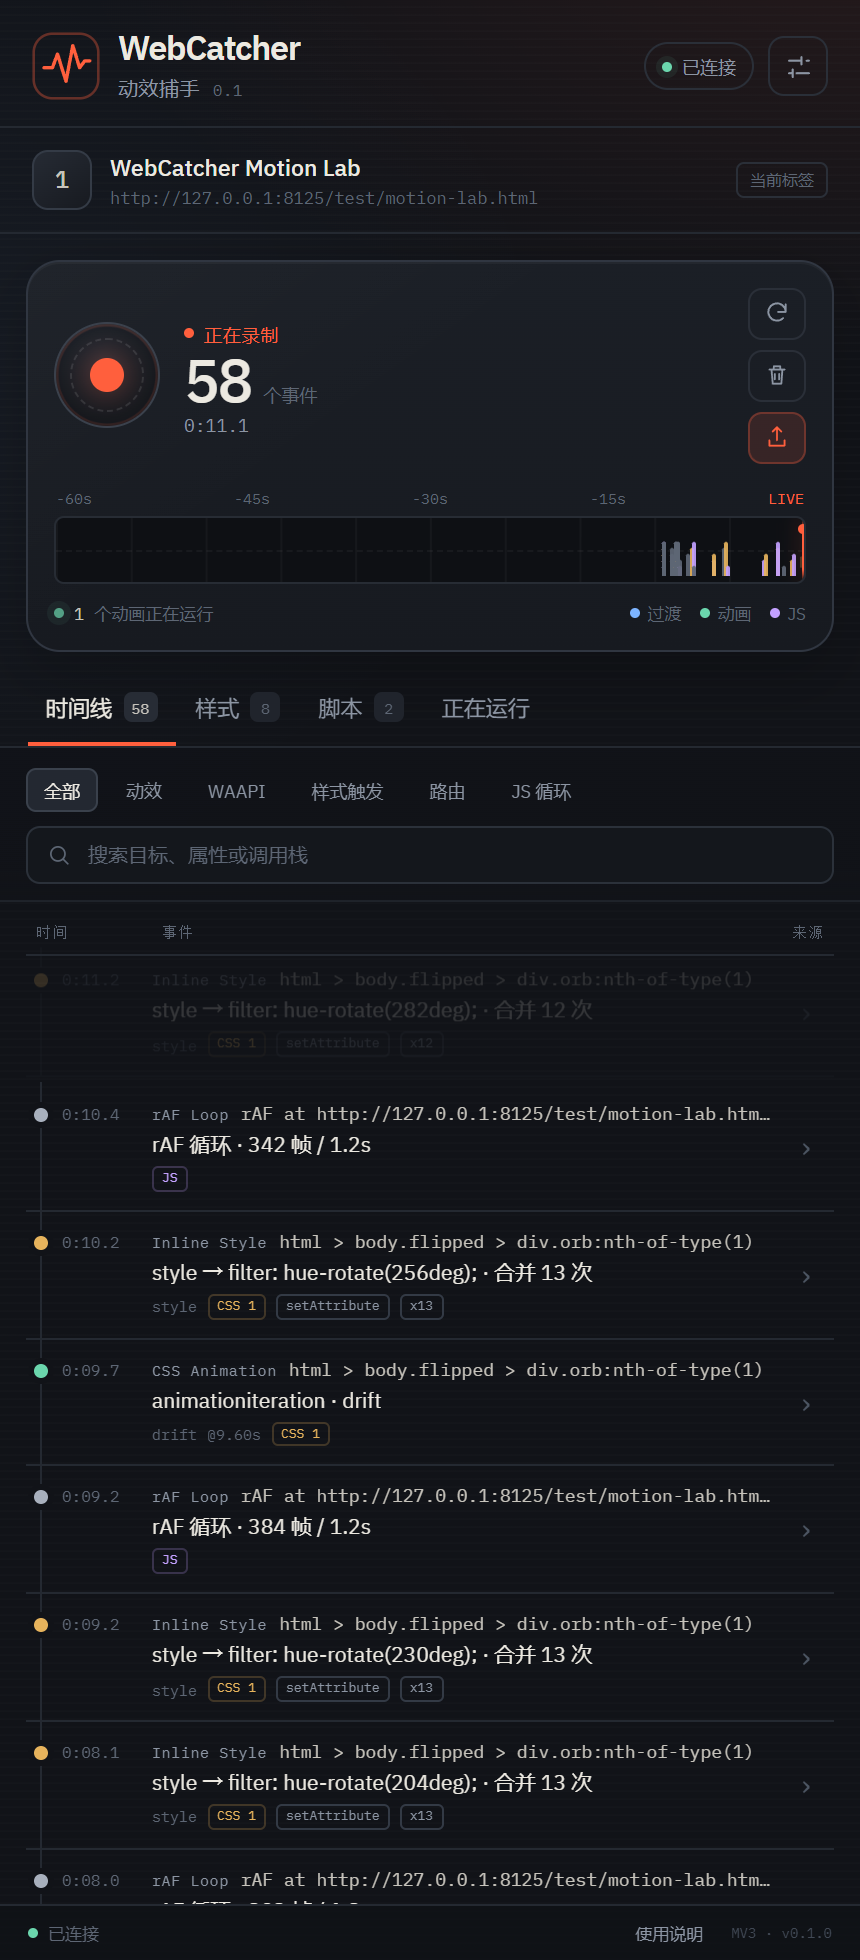
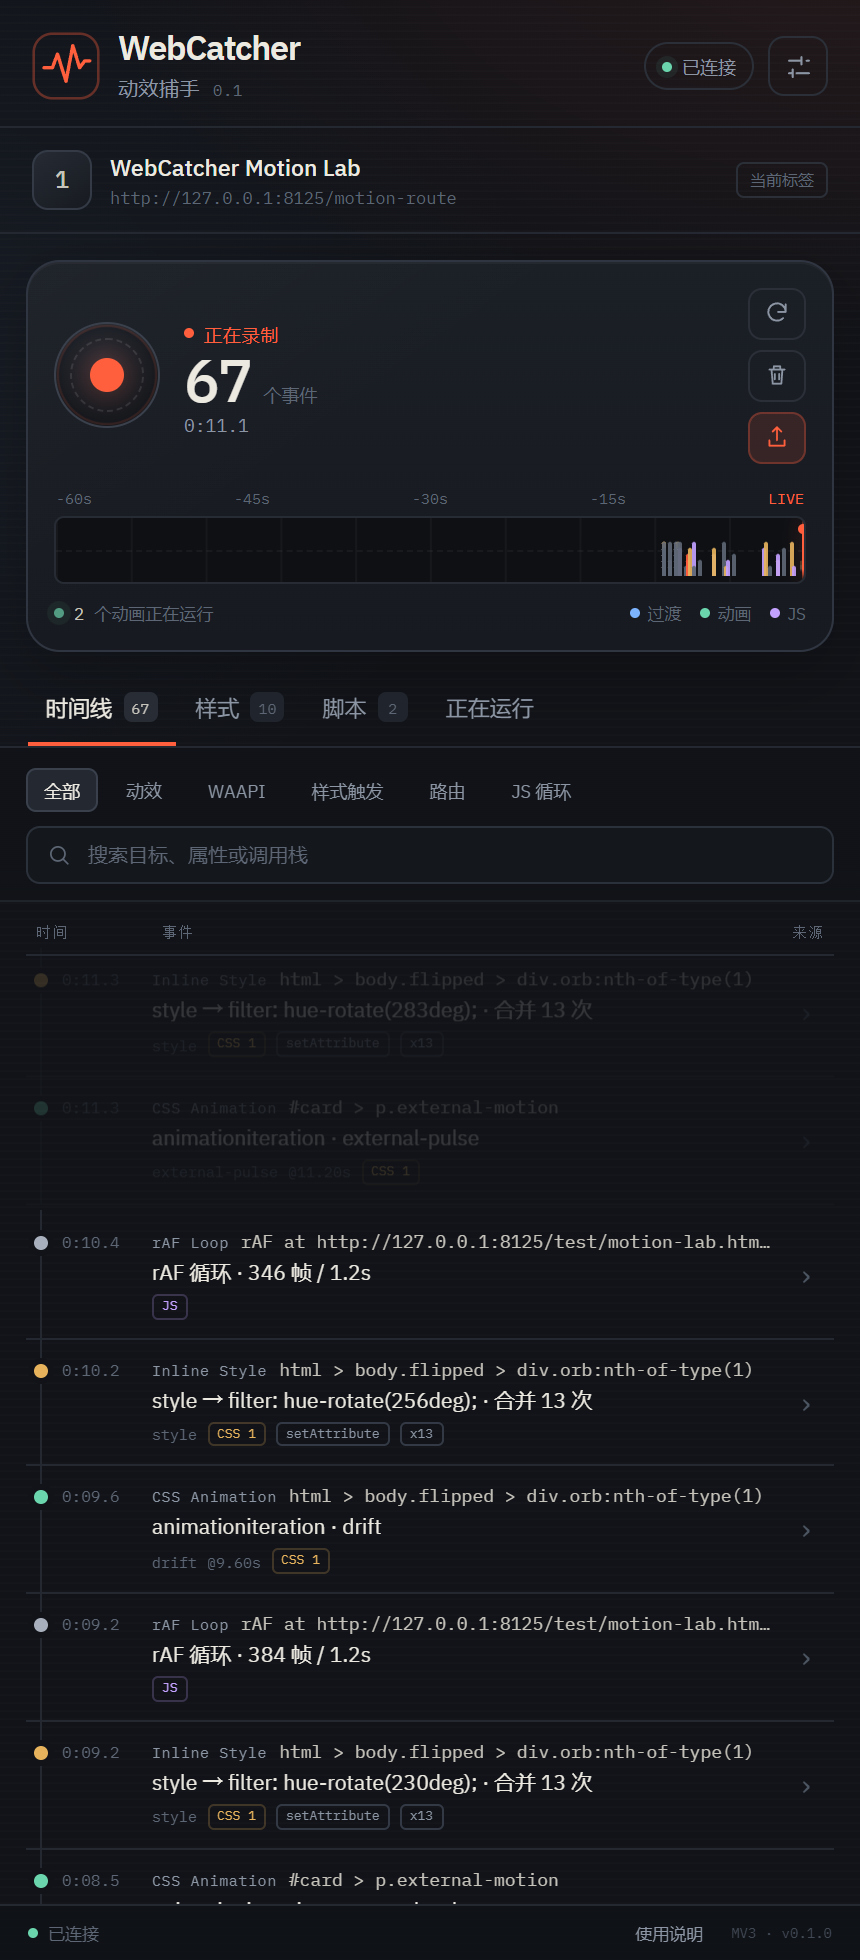
fix: keep source URLs stable across SPA routes

diff --git a/content/recorder.js b/content/recorder.js
@@ -10,6 +10,7 @@
   } catch { return; }
 
   const MAIN_SOURCE = 'webcatcher-main';
+  const PAGE_KEY = location.href.split('#')[0];
   const BRIDGE_SOURCE = 'webcatcher-bridge';
   const MOTION_RE = /(?:transition|animation|transform|translate|scale|rotate|offset-path|view-transition|will-change|scroll-timeline|view-timeline|perspective|filter|clip-path|cubic-bezier)/i;
   const MOTION_INLINE_PROPS = new Set([
@@ -36,6 +37,8 @@
   const inlineOwners = new WeakMap();
   const inlineStamp = new WeakMap();
   const styleRates = new WeakMap();
+  const scriptUrlCache = new WeakMap();
+  const linkUrlCache = new WeakMap();
   const classStamp = new WeakMap();
   const motionRuleCache = new WeakMap();
   const shadowRoots = new WeakSet();
@@ -1004,14 +1007,16 @@
         const type = (script.type || '').toLowerCase();
         if (type && !/javascript|ecmascript|module/.test(type)) continue;
         if (script.src) {
-          scripts.push({ src: script.src, inline: false });
+          let src = scriptUrlCache.get(script);
+          if (!src) { src = script.src; scriptUrlCache.set(script, src); }
+          scripts.push({ src, inline: false });
         } else {
           const text = script.textContent || '';
           if (!text.trim() || totalInline > 1_200_000) continue;
           const clipped = text.slice(0, 260_000);
           totalInline += clipped.length;
           index += 1;
-          scripts.push({ inline: true, text: clipped, label: `${location.href.split('#')[0]}#webcatcher-inline-script-${index}` });
+          scripts.push({ inline: true, text: clipped, label: `${PAGE_KEY}#webcatcher-inline-script-${index}` });
         }
       }
       for (const style of styleNodes) {
@@ -1022,12 +1027,16 @@
         const clipped = text.slice(0, 220_000);
         totalInline += clipped.length;
         index += 1;
-        styles.push({ inline: true, text: clipped, label: `${location.href.split('#')[0]}#webcatcher-inline-style-${index}`, media: style.media || '' });
+        styles.push({ inline: true, text: clipped, label: `${PAGE_KEY}#webcatcher-inline-style-${index}`, media: style.media || '' });
       }
       for (const link of linkNodes) {
         if (seenStyles.has(link)) continue;
         seenStyles.add(link);
-        if (link.href) styles.push({ inline: false, href: link.href, media: link.media || '' });
+        if (link.href) {
+          let href = linkUrlCache.get(link);
+          if (!href) { href = link.href; linkUrlCache.set(link, href); }
+          styles.push({ inline: false, href, media: link.media || '' });
+        }
       }
     }
 
@@ -1040,7 +1049,7 @@
           const text = serializeSheet(sheet);
           if (text && totalInline < 1_200_000) {
             totalInline += text.length;
-            styles.push({ inline: true, text: text.slice(0, 220_000), label: `${location.href.split('#')[0]}#webcatcher-cssom-${styles.length}`, media: sheet.media?.mediaText || '' });
+            styles.push({ inline: true, text: text.slice(0, 220_000), label: `${PAGE_KEY}#webcatcher-cssom-${styles.length}`, media: sheet.media?.mediaText || '' });
           }
         }
       }
@@ -1052,7 +1061,7 @@
           const text = serializeSheet(sheet);
           if (!text || totalInline > 1_200_000) continue;
           totalInline += text.length;
-          styles.push({ inline: true, text: text.slice(0, 220_000), label: location.href.split('#')[0] + '#webcatcher-adopted-style-' + styles.length });
+          styles.push({ inline: true, text: text.slice(0, 220_000), label: PAGE_KEY + '#webcatcher-adopted-style-' + styles.length });
         }
       } catch { /* ignore */ }
     }

diff --git a/background.js b/background.js
@@ -10,13 +10,14 @@ const MAX_SEEN_STYLES = 160;
 const PANEL_PORT = 'webcatcher-panel';
 
 const sessions = new Map();
+const loadingSessions = new Map();
 const saveTimers = new Map();
 const panelPorts = new Map();
 const sourceCache = new Map();
 const analysisCache = new Map();
 let fetchActive = 0;
 const fetchQueue = [];
-let badgeTimer = null;
+const badgeTimers = new Map();
 
 function makeSession(tabId) {
   const now = Date.now();
@@ -45,18 +46,27 @@ function storageKey(tabId) { return `${SESSION_PREFIX}${tabId}`; }
 
 async function loadSession(tabId) {
   if (sessions.has(tabId)) return sessions.get(tabId);
-  const key = storageKey(tabId);
-  let stored = null;
+  if (loadingSessions.has(tabId)) return loadingSessions.get(tabId);
+  const pending = (async () => {
+    const key = storageKey(tabId);
+    let stored = null;
+    try {
+      stored = (await chrome.storage.session.get(key))[key];
+    } catch (error) {
+      console.warn('[WebCatcher] session restore failed', error);
+    }
+    const session = stored || makeSession(tabId);
+    if (!session.inventory) session.inventory = makeSession(tabId).inventory;
+    if (!session.settings) session.settings = { recordRaf: true, captureStyles: true };
+    sessions.set(tabId, session);
+    return session;
+  })();
+  loadingSessions.set(tabId, pending);
   try {
-    stored = (await chrome.storage.session.get(key))[key];
-  } catch (error) {
-    console.warn('[WebCatcher] session restore failed', error);
+    return await pending;
+  } finally {
+    loadingSessions.delete(tabId);
   }
-  const session = stored || makeSession(tabId);
-  if (!session.inventory) session.inventory = makeSession(tabId).inventory;
-  if (!session.settings) session.settings = { recordRaf: true, captureStyles: true };
-  sessions.set(tabId, session);
-  return session;
 }
 
 function scheduleSave(session) {
@@ -90,6 +100,7 @@ async function persistSession(session) {
 
 async function deleteSession(tabId) {
   sessions.delete(tabId);
+  loadingSessions.delete(tabId);
   clearTimeout(saveTimers.get(tabId));
   saveTimers.delete(tabId);
   try { await chrome.storage.session.remove(storageKey(tabId)); } catch { /* ignore */ }
@@ -119,8 +130,11 @@ function publicSession(session) {
 }
 
 function scheduleBadge(tabId, session) {
-  clearTimeout(badgeTimer);
-  badgeTimer = setTimeout(() => updateBadge(tabId, session), 120);
+  clearTimeout(badgeTimers.get(tabId));
+  badgeTimers.set(tabId, setTimeout(() => {
+    badgeTimers.delete(tabId);
+    updateBadge(tabId, session);
+  }, 120));
 }
 
 async function updateBadge(tabId, session) {

diff --git a/test/motion-lab.html b/test/motion-lab.html
@@ -19,13 +19,14 @@
   button { padding: 10px 14px; border: 1px solid #46505f; border-radius: 7px; background: #1a1e25; color: #f0eee6; }
   .scroll-note { position: absolute; bottom: 24px; animation-timeline: scroll(); animation-range: entry 0% cover 30%; }
 </style>
+<link rel="stylesheet" href="motion.css">
 </head>
 <body>
   <div class="orb"></div>
   <main class="stage">
     <section class="card view-hero" id="card">
       <h1>Motion<br>Field Notes</h1>
-      <p>A small page for testing CSS transitions, keyframes, WAAPI and view transitions.</p>
+      <p class="external-motion">A small page for testing CSS transitions, keyframes, WAAPI and view transitions.</p>
       <button id="animate">Run WAAPI</button>
     </section>
   </main>

diff --git a/test/motion.css b/test/motion.css
@@ -1,0 +1,8 @@
+.external-motion {
+  transition: transform .45s cubic-bezier(.2,.8,.2,1), opacity .45s;
+  animation: external-pulse 2.8s ease-in-out infinite alternate;
+}
+@keyframes external-pulse {
+  from { opacity: .65; }
+  to { opacity: 1; }
+}
